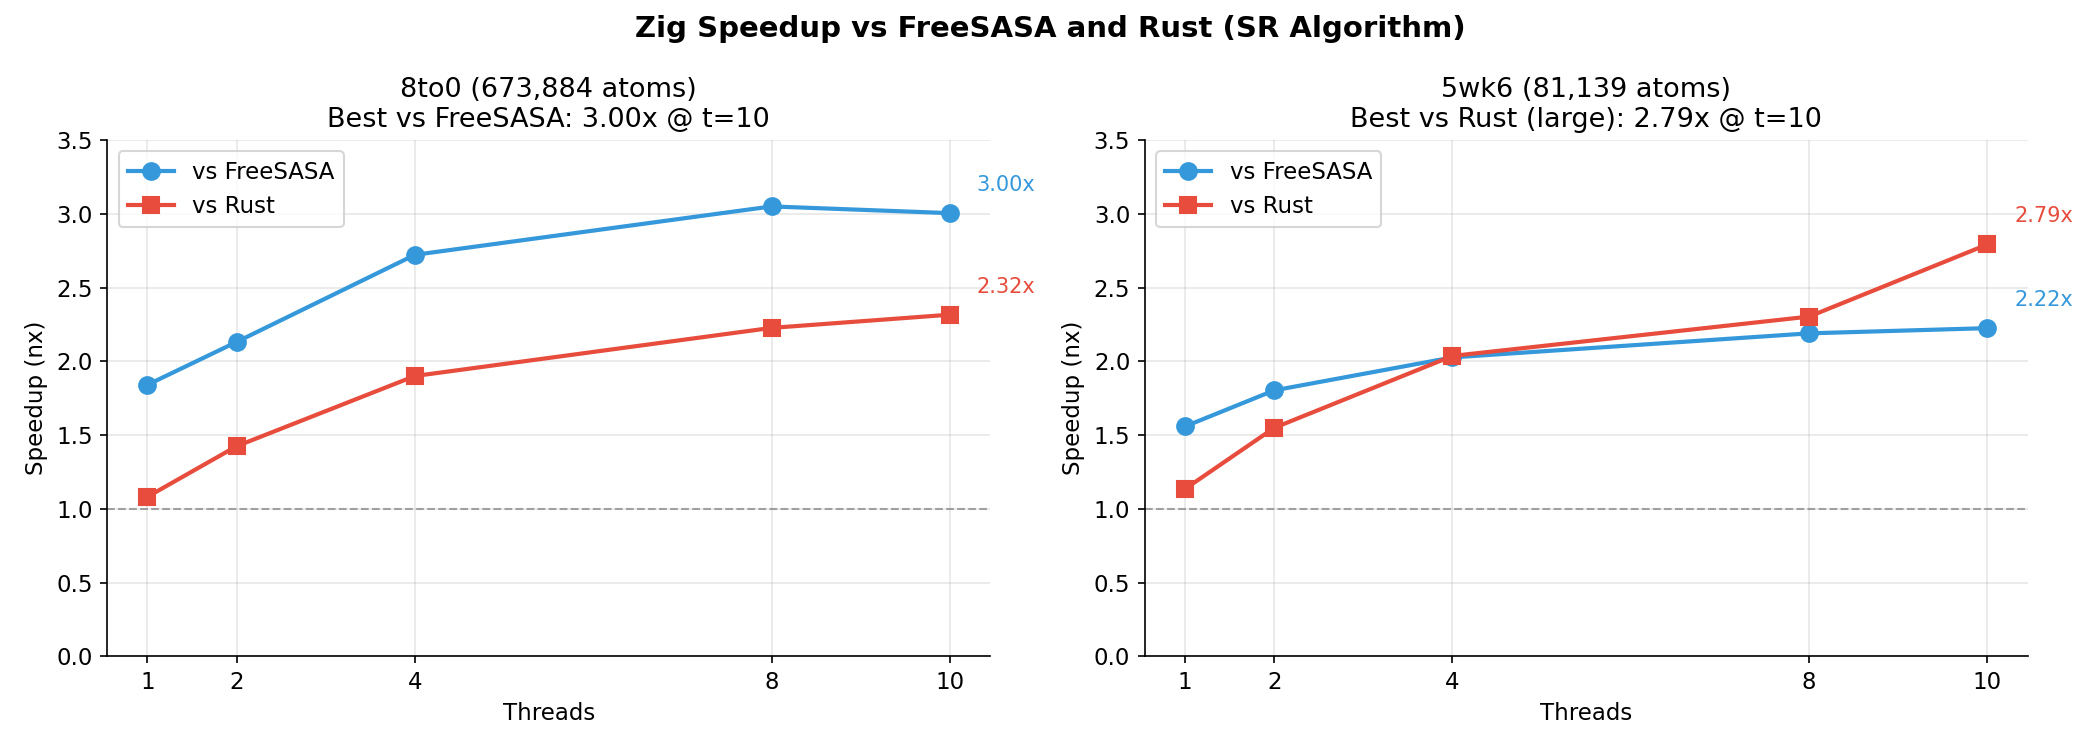
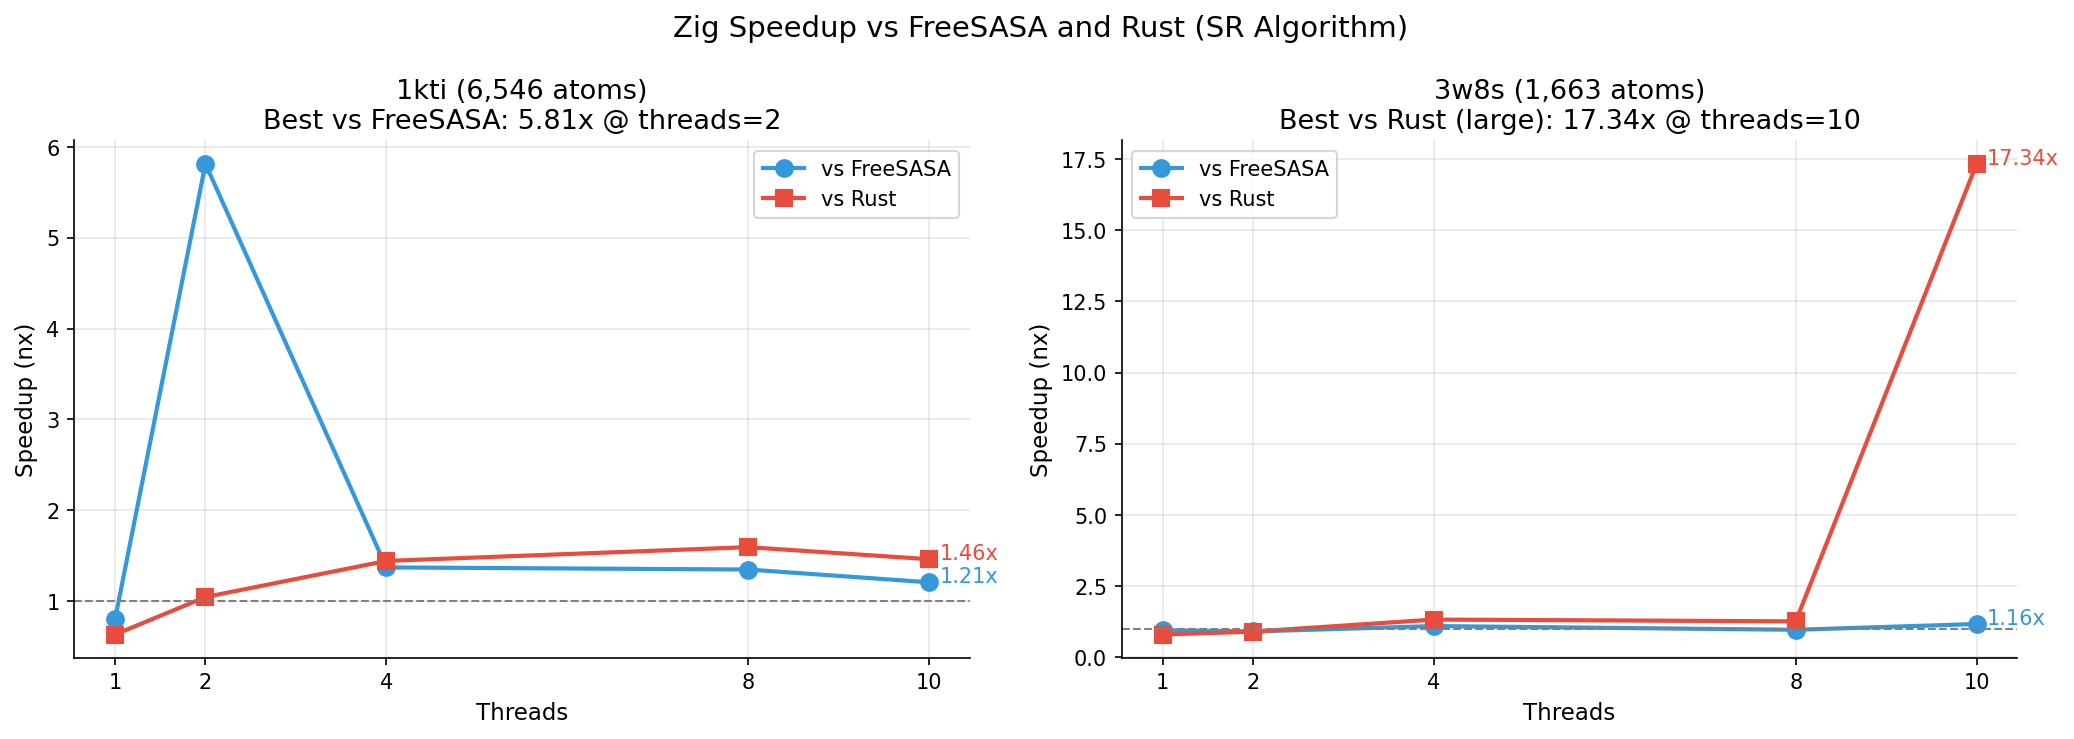
feat(analyze): Add speedup command to find best speedup structures
- New `speedup` command finds top N structures by speedup ratio
- Supports any thread count (same structure can appear at different threads)
- Shows Rust outlier warning for small structures with abnormal speedup
- Generates comparison.png with best vs FreeSASA and best vs Rust plots

diff --git a/benchmarks/scripts/analyze.py b/benchmarks/scripts/analyze.py
@@ -1272,6 +1272,194 @@ def efficiency():
 
 
 @app.command()
+def speedup(
+    min_atoms: int = typer.Option(50000, help="Minimum atom count for filtering"),
+    top_n: int = typer.Option(5, help="Number of top entries to show"),
+):
+    """Find structures with best Zig speedup at any thread count."""
+    setup_style()
+    df = load_data()
+    df = add_size_bin(df)
+
+    # Filter to SR algorithm and large structures
+    df_sr = df.filter((pl.col("algorithm") == "sr") & (pl.col("n_atoms") >= min_atoms))
+
+    # Pivot to get tools side by side
+    pivot = (
+        df_sr.select(["structure", "n_atoms", "threads", "tool_label", "time_ms"])
+        .pivot(
+            on="tool_label", index=["structure", "n_atoms", "threads"], values="time_ms"
+        )
+        .drop_nulls()
+    )
+
+    # Calculate speedup
+    if "zig_f64" not in pivot.columns:
+        rprint("[red]No zig_f64 data found[/red]")
+        return
+
+    speedup_cols = []
+    if "freesasa" in pivot.columns:
+        pivot = pivot.with_columns(
+            (pl.col("freesasa") / pl.col("zig_f64")).alias("vs_freesasa")
+        )
+        speedup_cols.append("vs_freesasa")
+    if "rust" in pivot.columns:
+        pivot = pivot.with_columns(
+            (pl.col("rust") / pl.col("zig_f64")).alias("vs_rust")
+        )
+        speedup_cols.append("vs_rust")
+
+    plot_dir = PLOTS_DIR / "speedup"
+    plot_dir.mkdir(parents=True, exist_ok=True)
+
+    # Print and collect top entries for each comparison
+    results = {}
+
+    for col in speedup_cols:
+        comparison = col.replace("vs_", "")
+        top_entries = pivot.sort(col, descending=True).head(top_n)
+
+        table = Table(
+            title=f"Top {top_n} Zig Speedup vs {comparison.title()} ({min_atoms:,}+ atoms)"
+        )
+        table.add_column("Rank", style="dim")
+        table.add_column("Structure", style="cyan")
+        table.add_column("Atoms", justify="right")
+        table.add_column("Threads", justify="right")
+        table.add_column("Speedup", justify="right", style="green")
+
+        entries = []
+        for i, row in enumerate(top_entries.iter_rows(named=True), 1):
+            table.add_row(
+                str(i),
+                row["structure"],
+                f"{row['n_atoms']:,}",
+                str(row["threads"]),
+                f"{row[col]:.2f}x",
+            )
+            entries.append(
+                {
+                    "structure": row["structure"],
+                    "n_atoms": row["n_atoms"],
+                    "threads": row["threads"],
+                    "speedup": row[col],
+                }
+            )
+
+        rprint(table)
+        rprint()
+        results[comparison] = entries
+
+    # Check for Rust outliers (unusually high speedup that might be measurement noise)
+    if "vs_rust" in speedup_cols:
+        # Find entries where vs_rust is much higher than vs_freesasa
+        outlier_check = pivot.filter(
+            (pl.col("vs_rust") > 5.0) & (pl.col("n_atoms") < 50000)
+        ).sort("vs_rust", descending=True)
+
+        if outlier_check.height > 0:
+            rprint(
+                "[yellow]Note: Rust has outliers in small structures (likely measurement noise):[/yellow]"
+            )
+            for row in outlier_check.head(3).iter_rows(named=True):
+                rprint(
+                    f"  {row['structure']}: {row['vs_rust']:.1f}x @ threads={row['threads']} ({row['n_atoms']:,} atoms)"
+                )
+            rprint()
+
+    # Generate comparison plot (similar to user's image)
+    if len(results) < 2:
+        rprint("[yellow]Need both FreeSASA and Rust data for comparison plot[/yellow]")
+        return
+
+    # Get best structure for each comparison
+    best_fs = results["freesasa"][0]
+    best_rust = results["rust"][0]
+
+    fig, axes = plt.subplots(1, 2, figsize=(14, 5))
+
+    for idx, (comparison, best) in enumerate(
+        [("freesasa", best_fs), ("rust", best_rust)]
+    ):
+        ax = axes[idx]
+        struct = best["structure"]
+        n_atoms = best["n_atoms"]
+
+        # Get all thread data for this structure
+        df_struct = pivot.filter(pl.col("structure") == struct).sort("threads")
+
+        threads_list = df_struct["threads"].to_list()
+        vs_fs = df_struct["vs_freesasa"].to_list()
+        vs_rust = df_struct["vs_rust"].to_list()
+
+        ax.plot(
+            threads_list,
+            vs_fs,
+            marker="o",
+            label="vs FreeSASA",
+            color="#3498db",
+            linewidth=2,
+            markersize=8,
+        )
+        ax.plot(
+            threads_list,
+            vs_rust,
+            marker="s",
+            label="vs Rust",
+            color="#e74c3c",
+            linewidth=2,
+            markersize=8,
+        )
+
+        ax.axhline(y=1.0, color="gray", linestyle="--", linewidth=1)
+        ax.set_xlabel("Threads")
+        ax.set_ylabel("Speedup (nx)")
+        ax.set_xticks(threads_list)
+        ax.legend()
+        ax.grid(True, alpha=0.3)
+
+        # Find best speedup for this structure
+        best_fs_val = max(vs_fs)
+        best_fs_t = threads_list[vs_fs.index(best_fs_val)]
+        best_rust_val = max(vs_rust)
+        best_rust_t = threads_list[vs_rust.index(best_rust_val)]
+
+        # Annotate endpoint values (at threads=10)
+        ax.annotate(
+            f"{vs_fs[-1]:.2f}x",
+            xy=(threads_list[-1], vs_fs[-1]),
+            xytext=(5, 0),
+            textcoords="offset points",
+            color="#3498db",
+            fontsize=10,
+        )
+        ax.annotate(
+            f"{vs_rust[-1]:.2f}x",
+            xy=(threads_list[-1], vs_rust[-1]),
+            xytext=(5, 0),
+            textcoords="offset points",
+            color="#e74c3c",
+            fontsize=10,
+        )
+
+        # Title with best info
+        if comparison == "freesasa":
+            title = f"{struct} ({n_atoms:,} atoms)\nBest vs FreeSASA: {best_fs_val:.2f}x @ threads={best_fs_t}"
+        else:
+            title = f"{struct} ({n_atoms:,} atoms)\nBest vs Rust (large): {best_rust_val:.2f}x @ threads={best_rust_t}"
+        ax.set_title(title)
+
+    fig.suptitle("Zig Speedup vs FreeSASA and Rust (SR Algorithm)", fontsize=14)
+    fig.tight_layout()
+
+    out_path = plot_dir / "comparison.png"
+    fig.savefig(out_path)
+    plt.close(fig)
+    rprint(f"[green]Saved:[/green] {out_path}")
+
+
+@app.command()
 def all():
     """Generate all plots and summary."""
     summary()
@@ -1283,6 +1471,7 @@ def all():
     samples()
     large()
     efficiency()
+    speedup()
     rprint(f"\n[bold green]All plots saved to:[/bold green] {PLOTS_DIR}")
 
 
